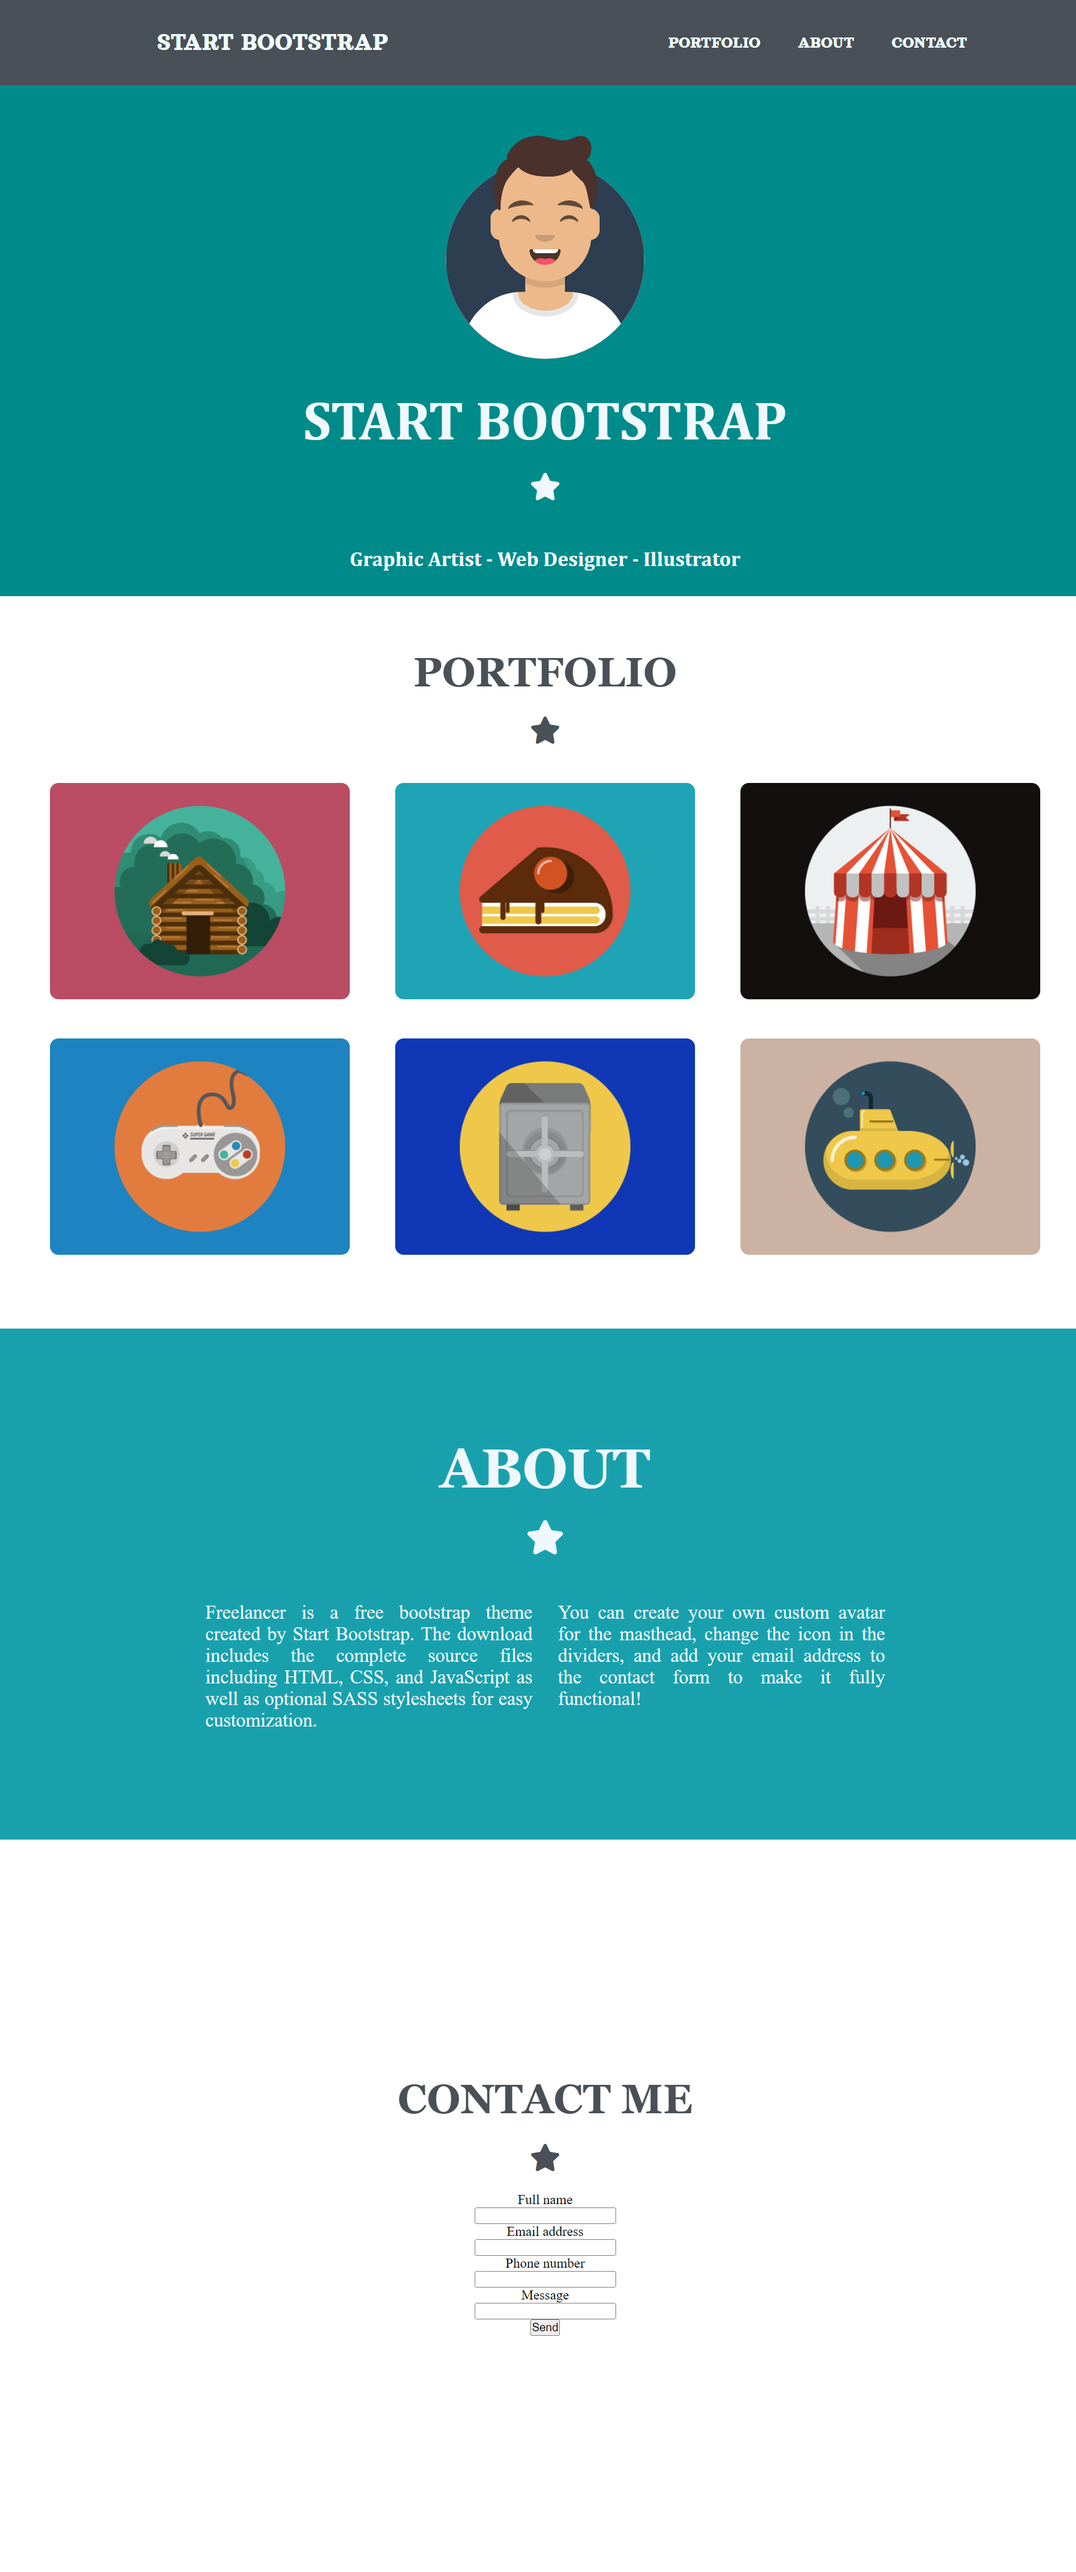
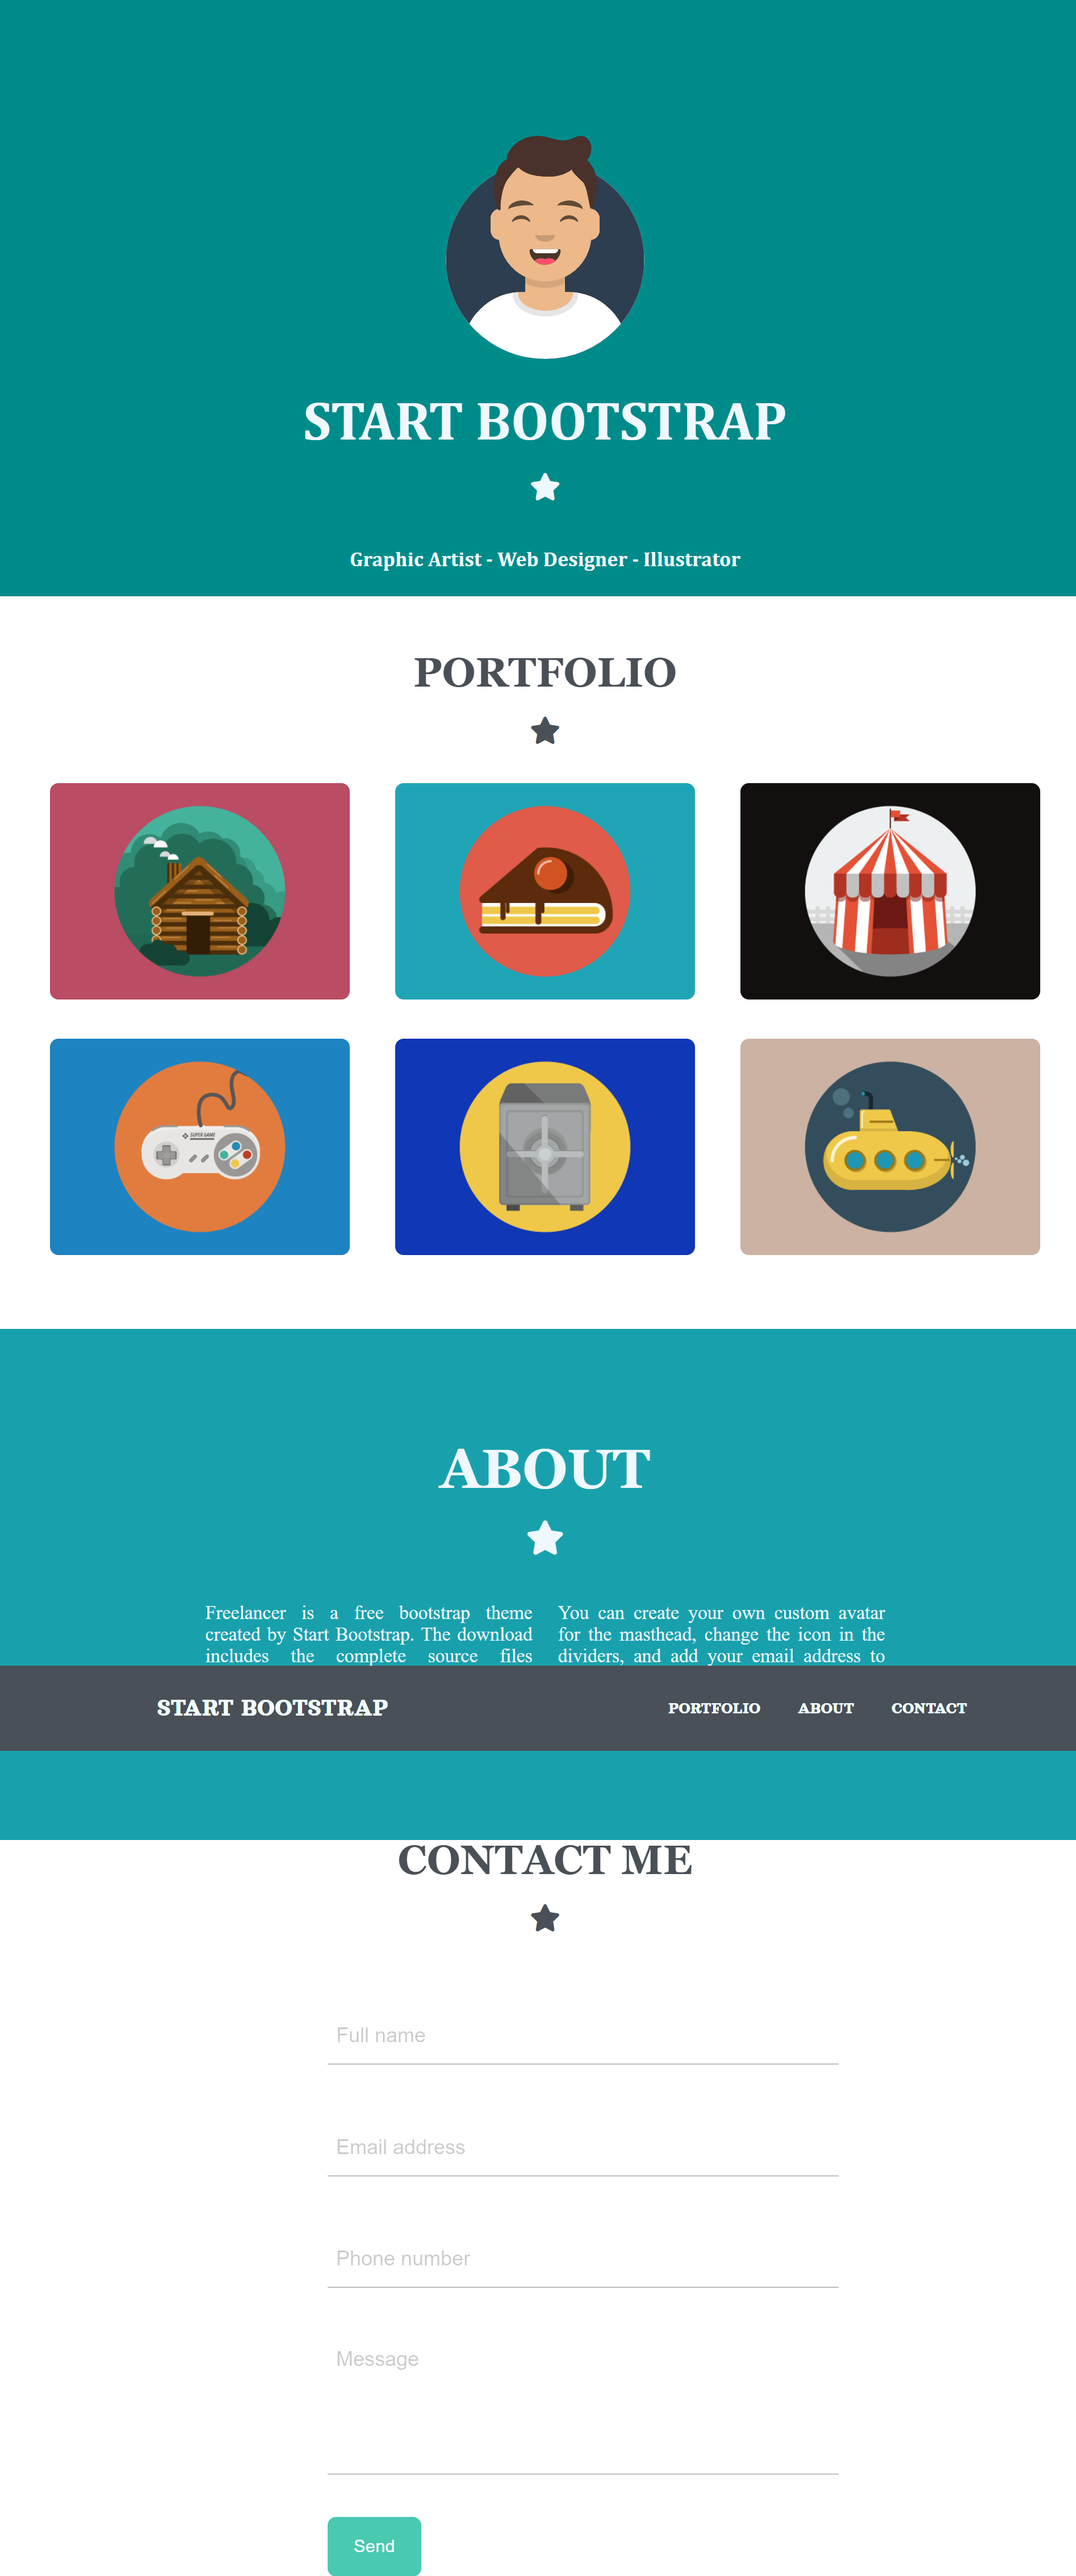
feat: form

diff --git a/css/style.css b/css/style.css
@@ -2,6 +2,7 @@
     margin: 0;
     padding: 0;
     box-sizing: border-box;
+    transition: 300ms;
 }
 
 .navbar{
@@ -14,6 +15,11 @@
     justify-content:space-between ;
     position: fixed;
     top: 0;
+    z-index: 2;
+}
+
+.navbar a:hover{
+    color: #1abc9c;
 }
 .first{
     width: 50%;
@@ -68,6 +74,7 @@
     width: 16em;
     margin-top: 150px;
 }
+
 
 .start h1{
     font-size: 4em;
@@ -132,6 +139,11 @@
     border-radius: 10px;
 }
 
+.porfolio-content img:hover{
+    cursor: pointer;
+    opacity: 0.8;
+    transform: scale(1.1);
+}
 
 .about{
     margin: 30px auto;
@@ -143,6 +155,7 @@
     justify-items: center;
     align-items: center;
     background-color:rgb(24, 161, 173);
+    margin-bottom: 30px;
 }
 
 .about .a-head{
@@ -182,7 +195,7 @@
     margin-right: 30px;
 }
 .contact{
-    margin: 30px auto;
+    margin: 60px auto;
     width: 95%;
     height: 800px;
     display: flex;
@@ -193,22 +206,79 @@
 }
 
 .contact form{
+    width: 60%;
+    height: auto;
     display: flex;
     flex-direction: column;
     justify-content: center;
-    justify-items: center;
+    justify-items: center;  
     align-items: center;
 }
-.contact .form .form-text .label{
+.contact form .label-box{
+    width: 70%;
+    height: auto;
+    height: auto;
+    display: flex;
+    flex-direction: column;
+    position: relative;
+    margin-top: 20px;
+}
+
+.label{
+    font-family:sans-serif;
+    font-size: 1.5em;
+    opacity: 0.7;
+    position: absolute;
+    bottom: 20px;
+    left: 10px;
 
 }
-.contact .form .form-text{
-
+.label-box .form-text{
+    width: 600px;
+    border: none;
+    border-bottom: 1px solid #495057;
+    padding: .5em 0.3em;
+    margin-top: 50px;
+    font-size: 1.5em;
+    opacity: 0.7;
+    line-height: 1.5em;
 }
 
-.contact .form .f-message{
-
+.m-label{
+    font-family:sans-serif;
+    font-size: 1.5em;
+    opacity: 0.7;
+    position: absolute;
+    top: 50px;
+    left: 10px;
 }
-.contact .form .button{
+.f-message{
+    width: 600px;
+    border: none;
+    border-bottom: 1px solid #495057;
+    padding: 2.5em 0;
+    font-size: 1.5em;
+    opacity: 0.7;
+    margin-top: 50px;
+    
+}
+.send-box{
+    width: 70%;
+    height: auto;
+}
+ .button{
+    width: 110px;
+    height: 70px;
+    margin-top: 50px;
+    border: none;
+    border-radius: 10px;
+    background-color: #1abc9c;
+    opacity: 0.8;
+    color: aliceblue;
+    font-size: 1.3em;
+    transition: 300ms;
+} 
 
+.button:hover{
+    opacity: 1;
 }

diff --git a/index.html b/index.html
@@ -94,19 +94,33 @@
         </div>
         
             <form action="" method="post">
-                <label for="fullname" class="label">Full name</label>
-                <input type="text" class="form-text" name="fullname" id="fullname">
 
-                <label for="email" class="label">Email address</address></label>
-                <input type="email" class="form-text" name="email" id="email">
-
-                <label for="fullname" class="label">Phone number</label>
-                <input type="number" class="form-text" name="number" id="number">
-
-                <label for="message" class="label">Message</label>
-                <input type="text" class="f-message" name="message" id="message">
-
-                <button type="submit" class="button">Send</button>
+                <div class="label-box">
+                    <label for="fullname" class="label">Full name</label>
+                    <input type="text" class="form-text" name="fullname" id="fullname">
+                </div>
+                
+                <div class="label-box">
+                    <label for="email" class="label">Email address</address></label>
+                    <input type="email" class="form-text" name="email" id="email">
+                </div>
+                
+                <div class="label-box">
+                    <label for="tel" class="label">Phone number</label>
+                    <input type="tel" class="form-text" name="tel" id="tel">
+                </div>
+                
+                <div class="label-box">
+                    <label for="message" class="m-label">Message</label>
+                    <input type="text" class="f-message" name="message" id="message">
+                </div>
+                
+                <div class="send-box">
+                    <button type="submit" class="button">Send</button>
+                </div>
+                   
+                
+                
             </form>
 
     </div>
